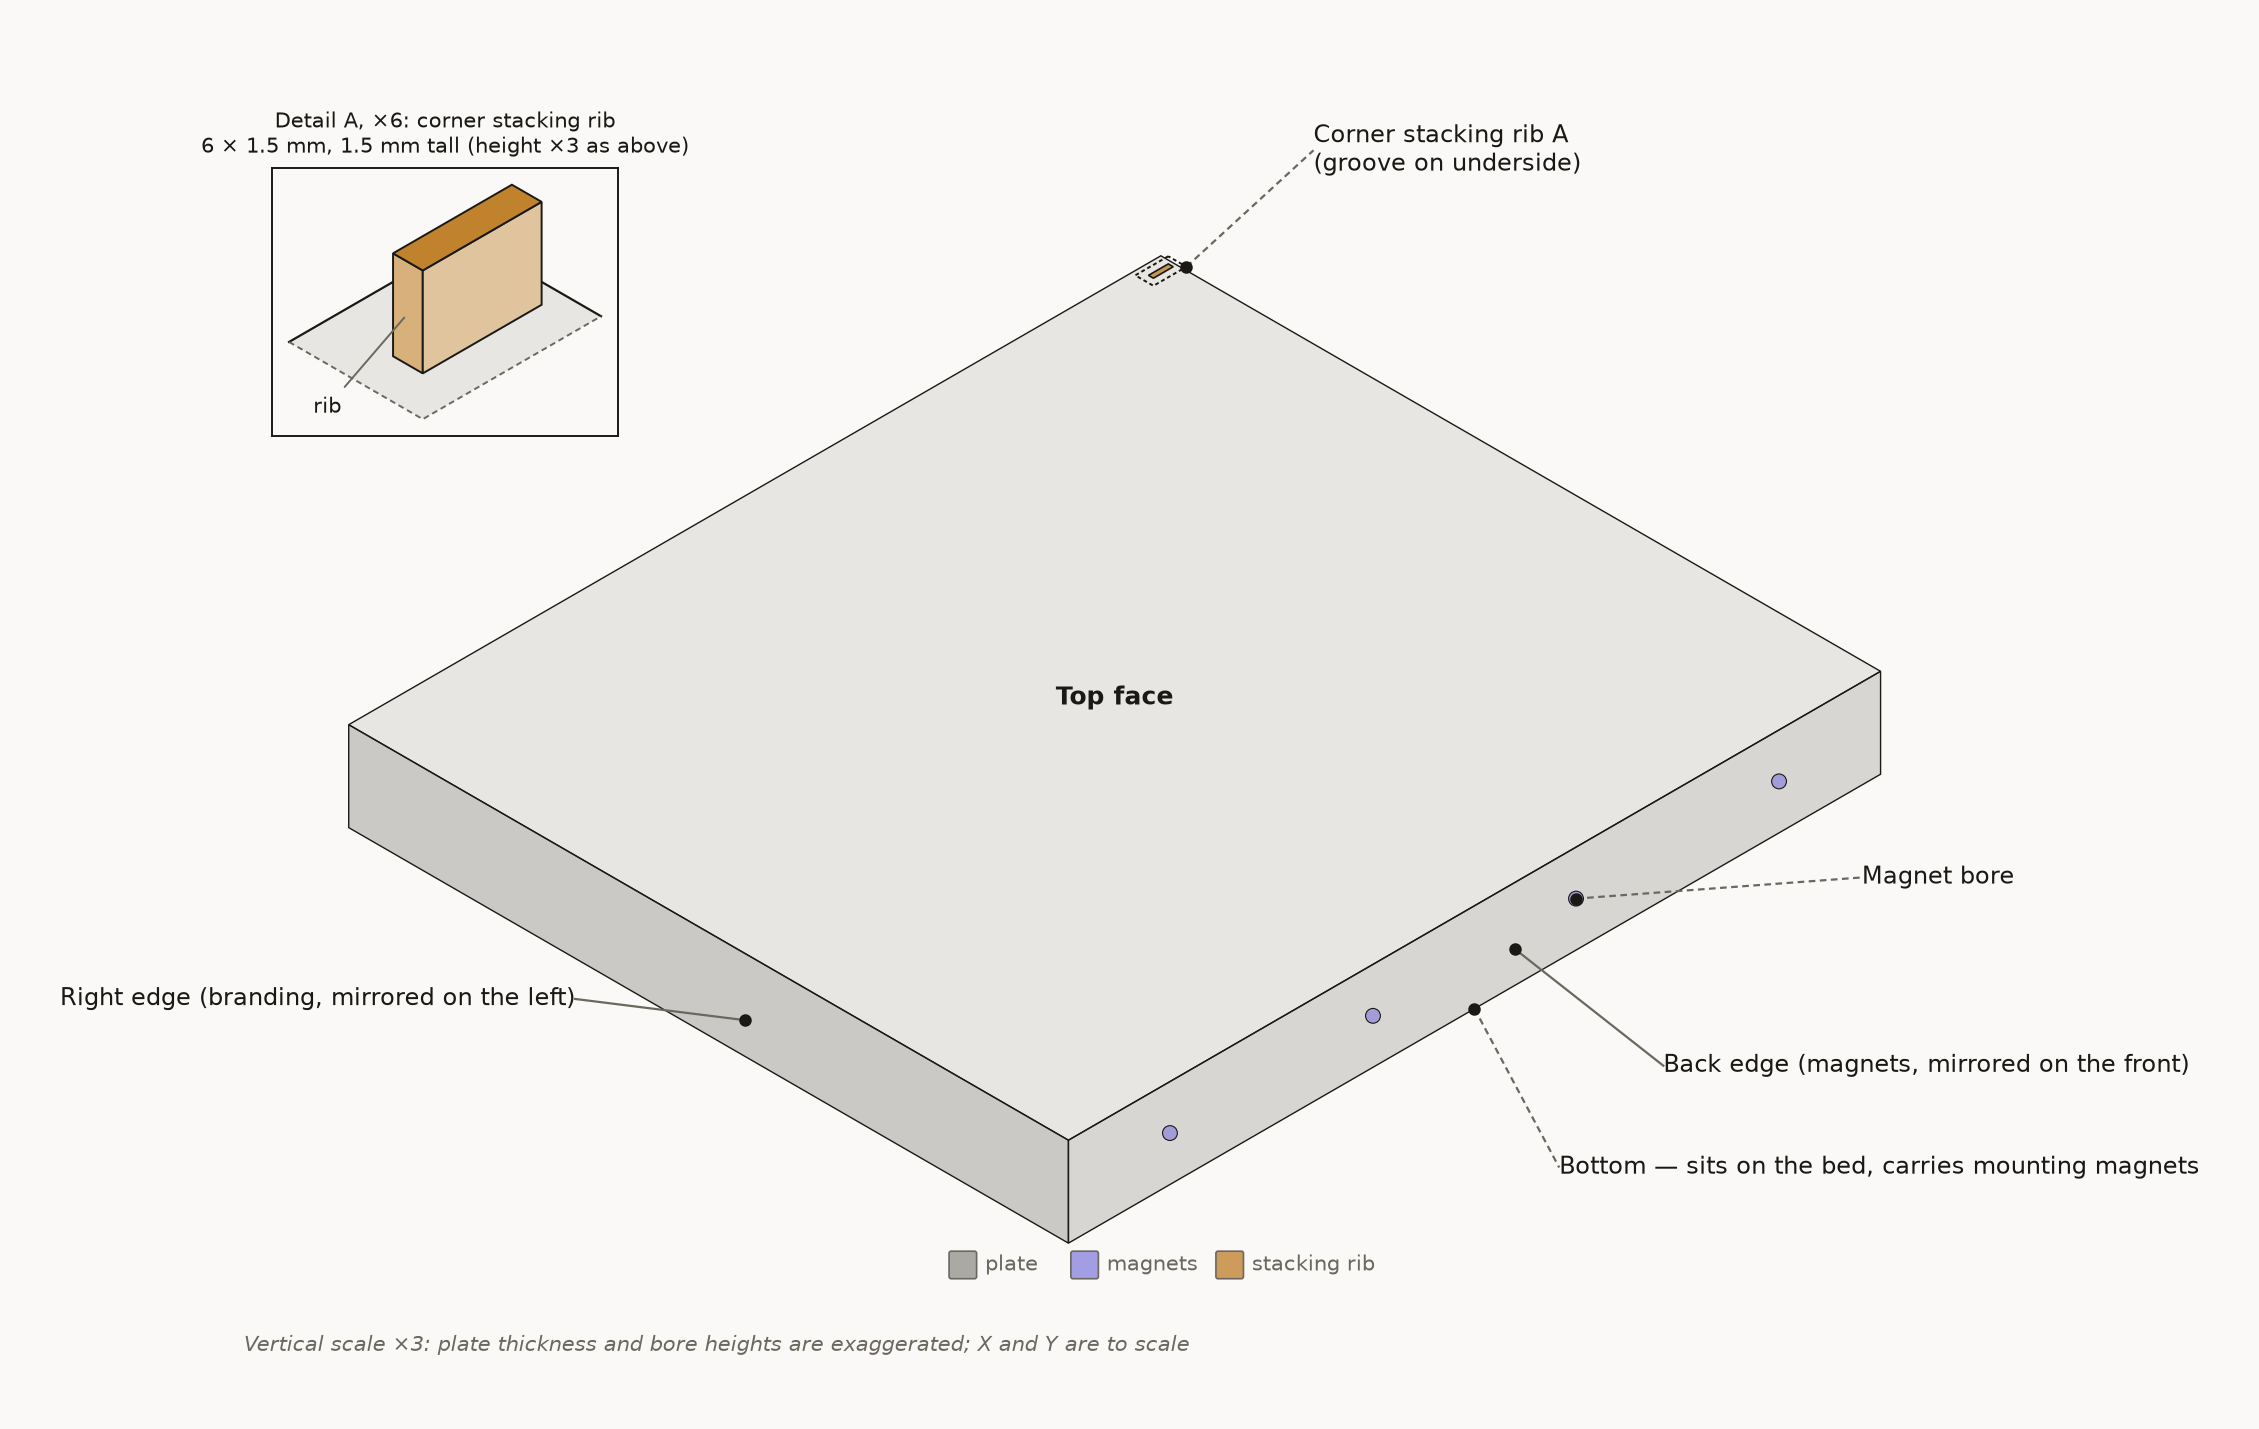
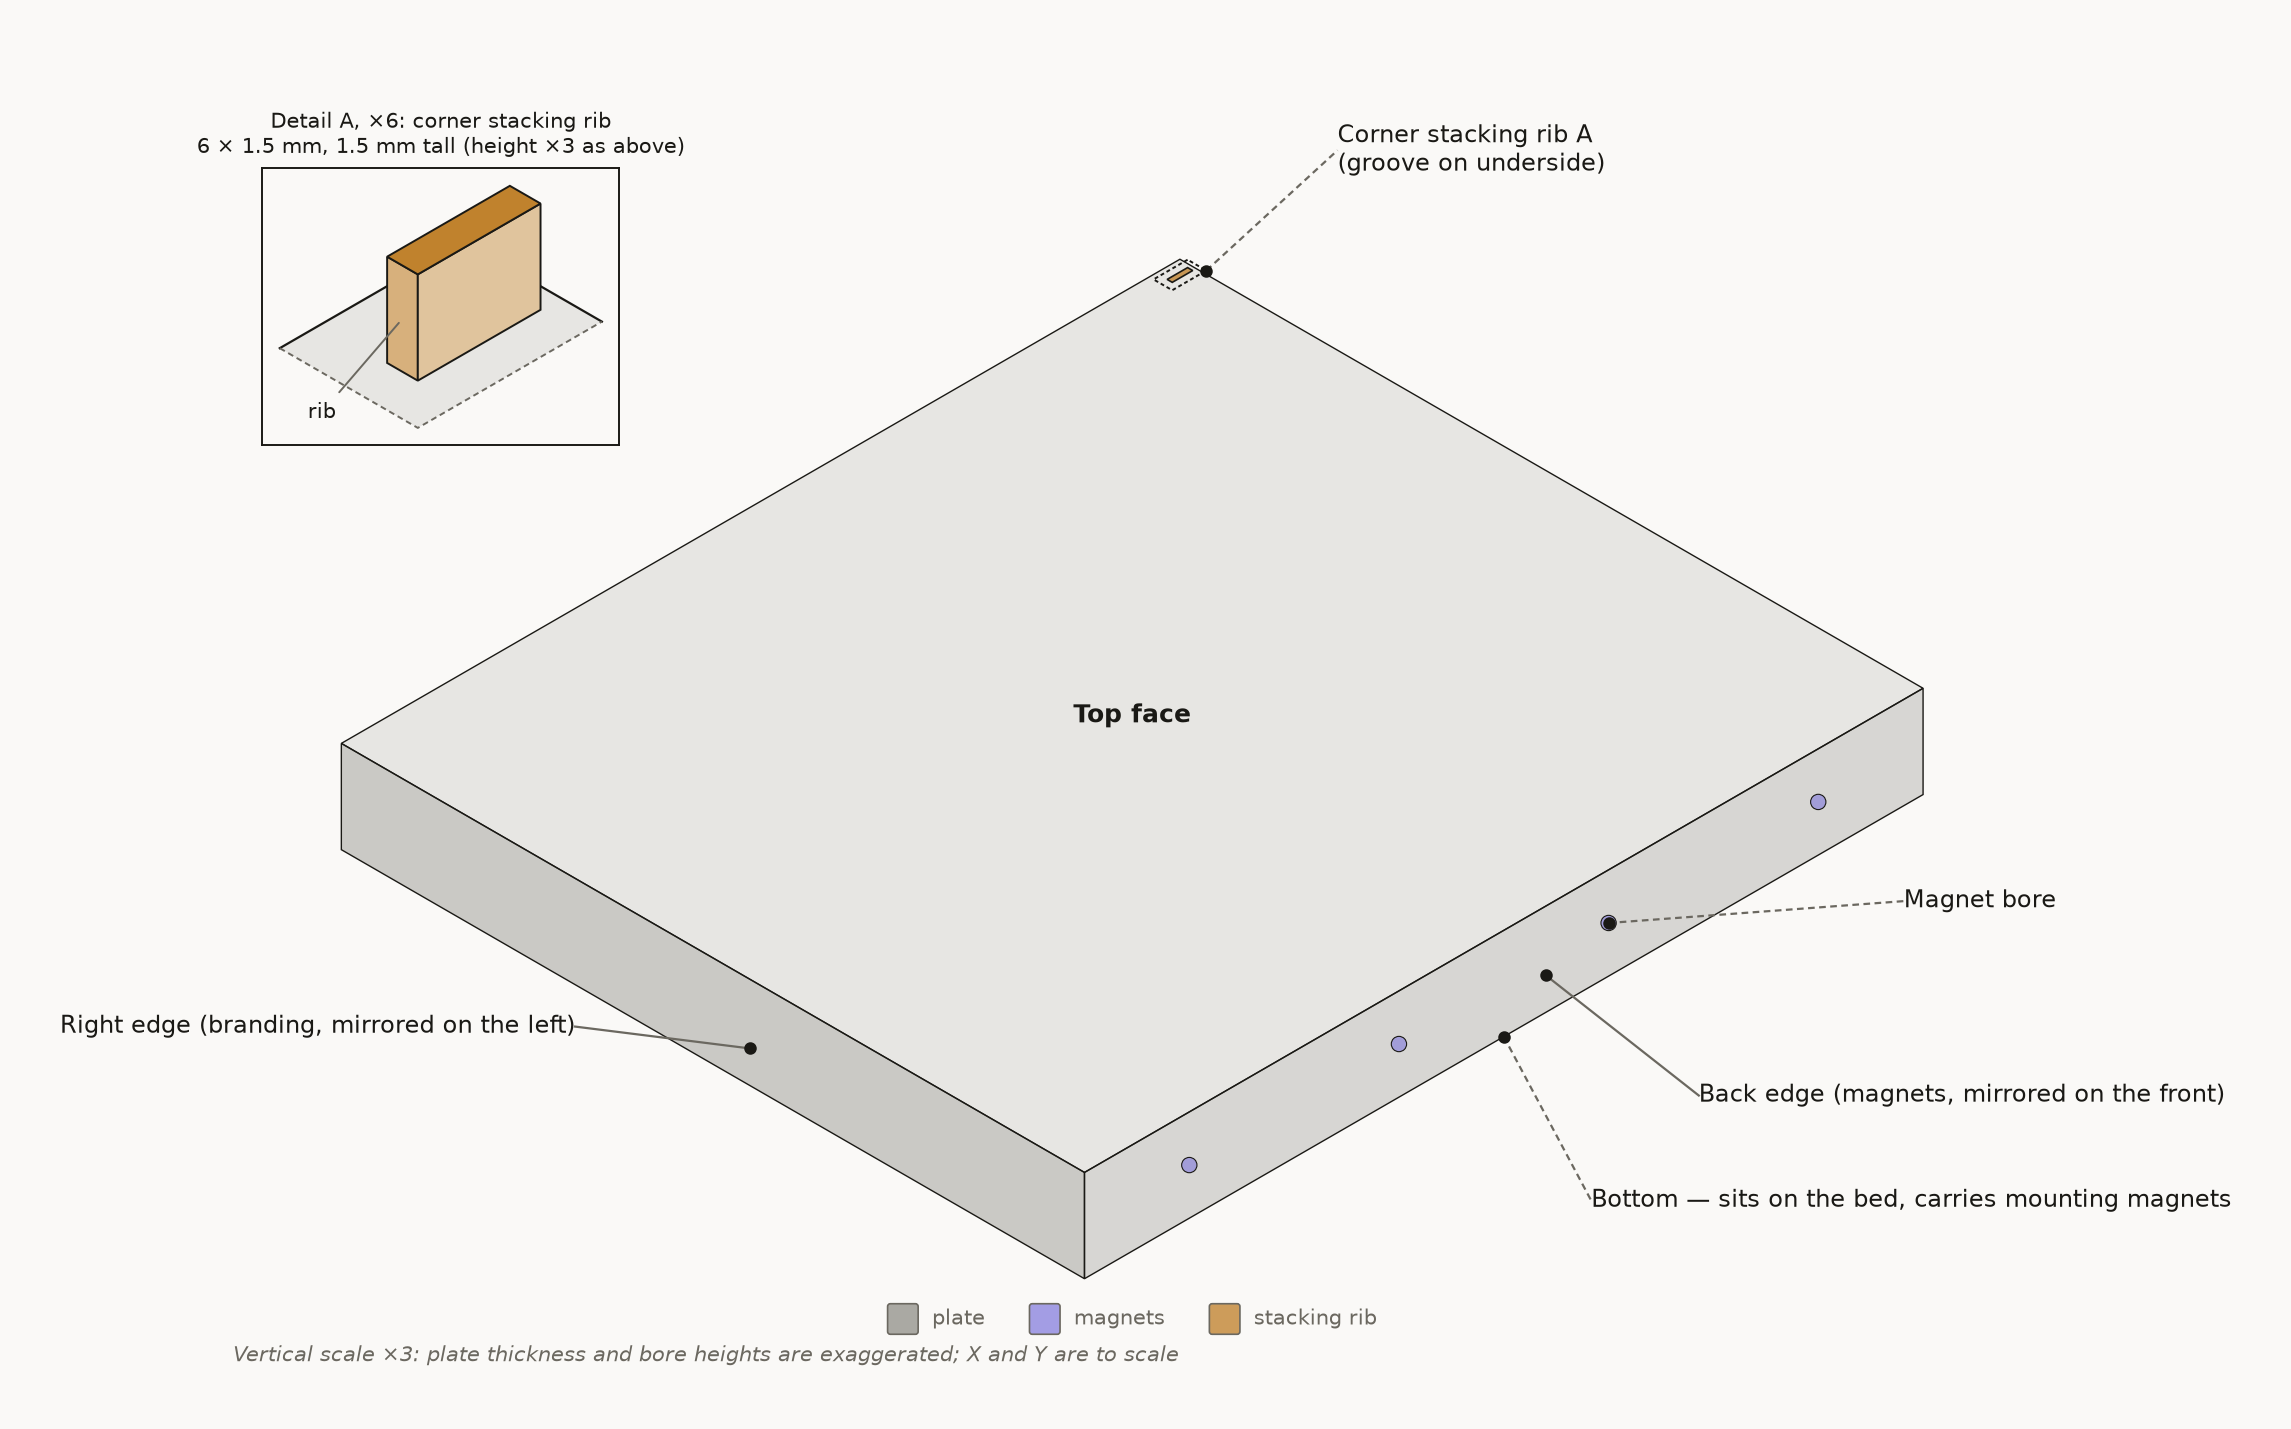
Lay out the isometric diagram legend in points (3.1.5)
The plate / magnets / stacking rib key was positioned in data units, so
it crowded at the smaller scale larger printer plates get. It is now laid
out in points from the bottom of the axes, independent of plate size.

Refs #4

diff --git a/jig-plate.py b/jig-plate.py
@@ -830,6 +830,17 @@ Changelog
          against Bambu Lab's official spec pages. Verified: STL triangle
          data (bytes 80+) byte-identical to 3.1.3 with no --printer; both
          meshes watertight for every profile; full test suite passes.
+  3.1.5  isometric diagram legend spacing (#4): the plate / magnets /
+         stacking rib key was laid out in data units, so at the smaller
+         scale a larger printer plate gets, its entries crowded and
+         "magnets" ran into the next swatch. The key is now laid out in
+         points from the bottom of the axes, with swatch size, gaps and
+         label widths fixed, so it reads the same at every plate size;
+         the "Vertical scale" note moved to sit under it. Verified: STL
+         triangle data (bytes 80+) byte-identical to 3.1.4 with no
+         --printer; both meshes watertight; diagrams viewed for the
+         default, h2s, x2d-right and a1; new tests fail on the old key;
+         full test suite passes.
 """
 import argparse
 import io
@@ -845,6 +856,7 @@ matplotlib.use("Agg")
 import matplotlib.pyplot as plt
 from matplotlib.patches import FancyBboxPatch
 from matplotlib.colors import to_rgba as _to_rgba
+from matplotlib.transforms import Affine2D, ScaledTranslation
 
 from jig_plate_base import build_plate, bx, printer_names
 
@@ -863,7 +875,7 @@ def _solid(color, alpha):
     fg, bg = _to_rgba(color), _to_rgba(BG)
     return tuple(alpha * c + (1 - alpha) * b for c, b in zip(fg[:3], bg[:3])) + (1.0,)
 
-VERSION = "3.1.4"
+VERSION = "3.1.5"
 OUT_DIR = Path(__file__).resolve().parent / "output"
 IMG_DIR = Path(__file__).resolve().parent / "images"
 
@@ -981,8 +993,10 @@ def leader(ax, anchor, text_pos, label, ha="left", dashed=True):
 def add_key(ax, items, y_pos=None, below_pt=None):
     """Draw a key of (label, color) swatches.
 
-    Default (y_pos, in data units): one centered row of color swatches, as
-    on the isometric overview.
+    Default: one centered row of color swatches, as on the isometric
+    overview. It is laid out in points from the axes' bottom edge (`y_pos`
+    is the row's center height above it, default ROW_KEY_Y_PT), so spacing,
+    swatch and text size do not change with the drawing's data scale.
 
     With below_pt: a column of feature entries under the axes, laid out in
     points so it reads the same whatever the drawing's scale. Each item is
@@ -994,17 +1008,46 @@ def add_key(ax, items, y_pos=None, below_pt=None):
     if below_pt is not None:
         _add_point_key(ax, items, below_pt)
         return
-    total_w = sum(len(label) * 5.5 + 22 for label, *_ in items)
-    x = -total_w / 2
+    fig = ax.figure
+    ax.apply_aspect()
+    renderer = fig.canvas.get_renderer()
+    y = ROW_KEY_Y_PT if y_pos is None else y_pos
+    # points, origin at the axes' bottom-center; the origin is looked up
+    # through transAxes at draw time, so the row moves with the axes when
+    # bbox_inches="tight" shifts the figure
+    to_px = (Affine2D().scale(1 / 72) + fig.dpi_scale_trans
+             + ScaledTranslation(0.5, 0, ax.transAxes))
+    entries = []
     for label, color, *_ in items:
         # alpha baked into the fill only; the MUTED outline stays opaque so
         # the swatch edge reaches 3:1 against BG
-        ax.add_patch(FancyBboxPatch((x, y_pos - 5), 11, 11,
-                     boxstyle="round,pad=1", fc=_faint(color, 0.7),
-                     ec=MUTED, lw=0.6, zorder=5))
-        ax.text(x + 16, y_pos + 0.5, label, fontsize=7.5,
-                color=MUTED, va="center", fontfamily="sans-serif", zorder=5)
-        x += len(label) * 5.5 + 30
+        patch = FancyBboxPatch((0, y - ROW_KEY_SWATCH_PT / 2),
+                               ROW_KEY_SWATCH_PT, ROW_KEY_SWATCH_PT,
+                               boxstyle="round,pad=1", fc=_faint(color, 0.7),
+                               ec=MUTED, lw=0.6, zorder=5, transform=to_px,
+                               clip_on=False)
+        text = ax.text(0, y, label, fontsize=7.5, color=MUTED, va="center",
+                       ha="left", fontfamily="sans-serif", zorder=5,
+                       transform=to_px)
+        ax.add_patch(patch)
+        w_pt = text.get_window_extent(renderer).width * 72 / fig.dpi
+        entries.append((patch, text, w_pt))
+    # swatch + gap + label, with a fixed gap between entries
+    widths = [ROW_KEY_SWATCH_PT + 2 + ROW_KEY_TEXT_GAP_PT + w
+              for *_, w in entries]
+    x = -(sum(widths) + ROW_KEY_ENTRY_GAP_PT * (len(widths) - 1)) / 2
+    for (patch, text, _), w in zip(entries, widths):
+        patch.set_x(x + 1)
+        text.set_position((x + 2 + ROW_KEY_SWATCH_PT + ROW_KEY_TEXT_GAP_PT, y))
+        x += w + ROW_KEY_ENTRY_GAP_PT
+
+
+# isometric overview key: center height above the axes bottom, swatch size,
+# swatch-to-label gap and entry-to-entry gap, all in points
+ROW_KEY_Y_PT = 18.0
+ROW_KEY_SWATCH_PT = 9.0
+ROW_KEY_TEXT_GAP_PT = 5.0
+ROW_KEY_ENTRY_GAP_PT = 16.0
 
 
 KEY_ROW_PT = 13.0
@@ -1014,7 +1057,6 @@ KEY_SWATCH_H_PT = 9.0
 
 def _add_point_key(ax, items, below_pt):
     from matplotlib.patches import Circle, Rectangle
-    from matplotlib.transforms import Affine2D, ScaledTranslation
     fig = ax.figure
     ax.apply_aspect()
     # points -> display pixels, origin at the axes' lower-left corner; the
@@ -1206,18 +1248,20 @@ def _plate_diagram(out_path, geom):
            "Corner stacking rib A\n(groove on underside)")
     _corner_rib_inset(ax, geom, S)
 
-    ax.text(0.01, 0.01,
-            f"Vertical scale ×{ISO_Z_EXAGGERATION}: plate thickness and "
-            "bore heights are exaggerated; X and Y are to scale",
-            transform=ax.transAxes, fontsize=7.5, ha="left", va="bottom",
-            color=MUTED, fontfamily="sans-serif", fontstyle="italic")
-
-    add_key(ax, [
-        ("plate", SHAPE), ("magnets", VIOLET), ("stacking rib", AMBER),
-    ], ax.get_ylim()[0] + 15)
+    # sits 1 pt above the axes' bottom edge, under the key row (which is
+    # centered at ROW_KEY_Y_PT) and clear of the plate's lowest corner
+    ax.annotate(
+        f"Vertical scale ×{ISO_Z_EXAGGERATION}: plate thickness and "
+        "bore heights are exaggerated; X and Y are to scale",
+        xy=(0.01, 0), xycoords="axes fraction", xytext=(0, 1),
+        textcoords="offset points", fontsize=7.5, ha="left", va="bottom",
+        color=MUTED, fontfamily="sans-serif", fontstyle="italic")
 
     ax.autoscale_view()
     ax.margins(0.08)
+    add_key(ax, [
+        ("plate", SHAPE), ("magnets", VIOLET), ("stacking rib", AMBER),
+    ])
     _save_png(fig, out_path, dpi=200, bbox_inches="tight", pad_inches=0.3,
                 facecolor=BG)
     plt.close(fig)

diff --git a/tests/test_diagram.py b/tests/test_diagram.py
@@ -60,3 +60,56 @@ def test_no_two_leaders_cross(iso_axes):
     crossings = [(a, b) for i, (a, sa) in enumerate(segs)
                  for b, sb in segs[i + 1:] if _intersect(sa, sb)]
     assert crossings == []
+
+
+# ---- bottom legend: laid out in points, not in the plot's data scale ----
+KEY_LABELS = ("plate", "magnets", "stacking rib")
+KEY_PRINTERS = (None, "a1", "h2s", "x2d-right", "h2c-right")
+
+
+def _key_boxes(printer, tmp_path):
+    """Window-space extents (points) of the legend's swatches and labels."""
+    captured = []
+    real_close = cli.plt.close
+    cli.plt.close = lambda fig=None: (captured.append(fig), real_close(fig))
+    try:
+        cli._plate_diagram(tmp_path / "d.png",
+                           build_plate(printer=printer).geometry)
+    finally:
+        cli.plt.close = real_close
+    fig = captured[0]
+    fig.canvas.draw()
+    ax = fig.axes[0]
+    to_pt = 72 / fig.dpi
+    texts = {t.get_text(): t for t in ax.texts if t.get_text() in KEY_LABELS}
+    swatches = [p for p in ax.patches
+                if isinstance(p, cli.FancyBboxPatch)]
+    assert sorted(texts) == sorted(KEY_LABELS) and len(swatches) == 3
+    # entries in drawing order: swatch then its label, left to right
+    swatches.sort(key=lambda p: p.get_window_extent().x0)
+    out = []
+    for label, patch in zip(KEY_LABELS, swatches):
+        for artist in (patch, texts[label]):
+            bb = artist.get_window_extent()
+            out.append((bb.x0 * to_pt, bb.x1 * to_pt, bb.y0 * to_pt,
+                        bb.y1 * to_pt))
+    return out
+
+
+@pytest.mark.parametrize("printer", KEY_PRINTERS)
+def test_legend_entries_do_not_overlap_at_any_plate_size(printer, tmp_path):
+    boxes = _key_boxes(printer, tmp_path)
+    for (_, x1, *_), (nx0, *_) in zip(boxes, boxes[1:]):
+        # consecutive swatch/label/swatch/... boxes, left to right, with a
+        # clear gap between each (the old data-unit layout crossed them)
+        assert nx0 - x1 >= 3.0
+
+
+def test_legend_spacing_is_the_same_in_points_at_every_plate_size(tmp_path):
+    def gaps(printer):
+        boxes = _key_boxes(printer, tmp_path)
+        return [round(nx0 - x1, 1)
+                for (_, x1, *_), (nx0, *_) in zip(boxes, boxes[1:])]
+    reference = gaps(None)
+    for printer in KEY_PRINTERS[1:]:
+        assert gaps(printer) == reference

diff --git a/CHANGELOG.md b/CHANGELOG.md
@@ -34,6 +34,18 @@ never changes -- it isn't one of the three.
 
 ---
 
+## 3.1.5 — Isometric diagram legend spacing
+
+Iterative (unreleased). The plate and coupon geometry are unchanged from
+3.1.4 (triangle data byte-identical); only the isometric diagram's legend
+and its footnote move.
+
+### Fixed
+- The isometric diagram's legend (plate, magnets, stacking rib) no longer
+  runs together on larger printer plates. It is now laid out at a fixed
+  size and spacing, whatever the plate size, and the "Vertical scale" note
+  sits just below it (#4).
+
 ## 3.1.4 — Per-printer profiles
 
 Iterative (unreleased). Without `--printer` the plate and coupon geometry
